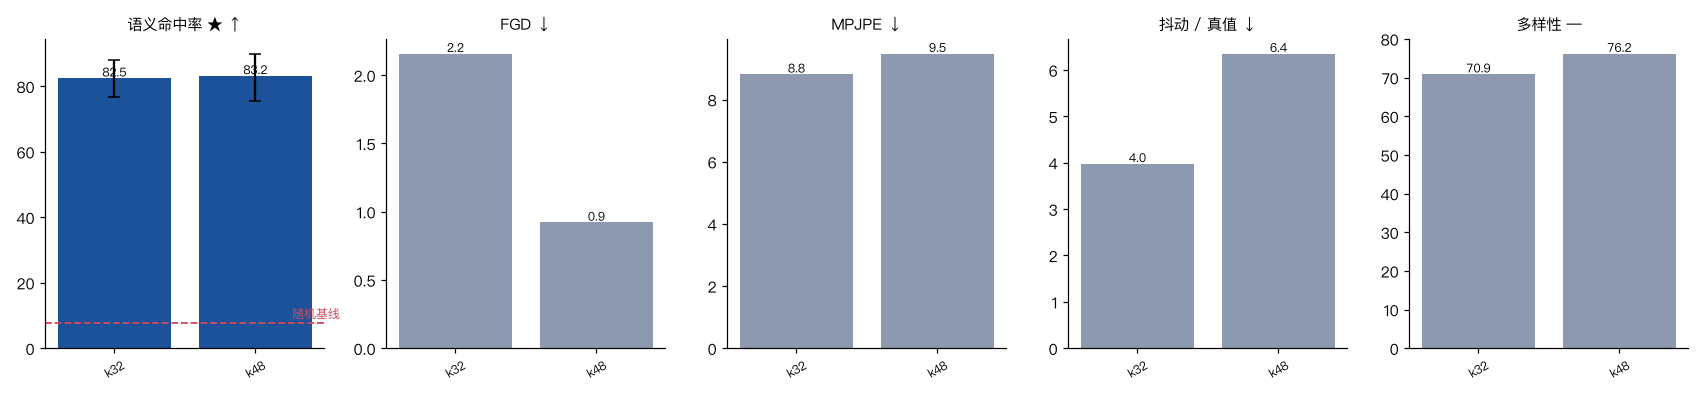
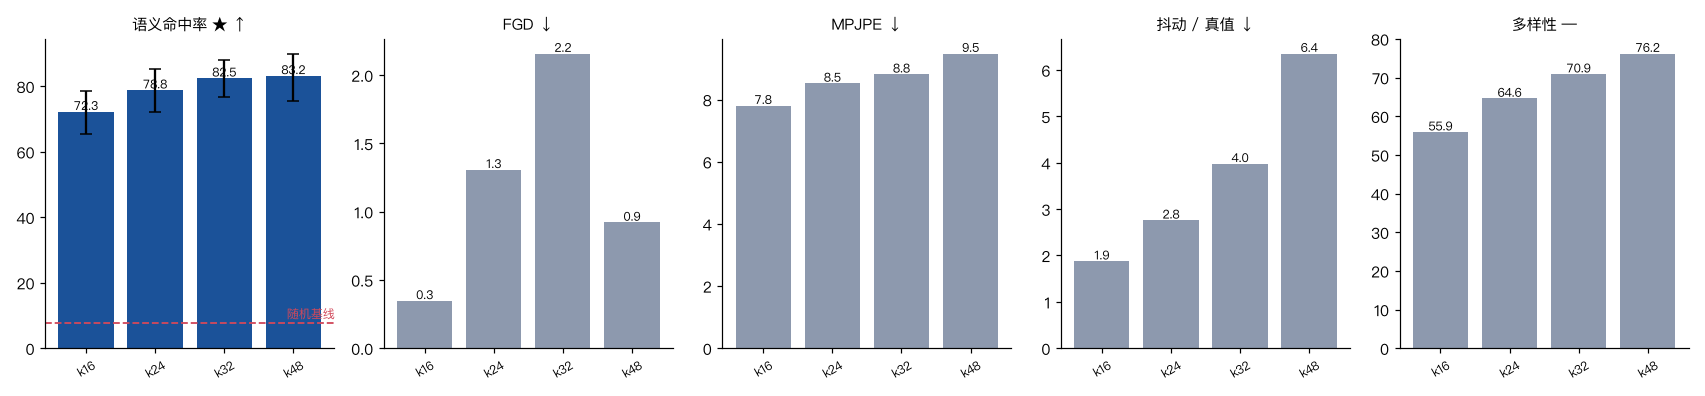
Correction: the projected-ground-truth score is not a ceiling; a K=16 model beat it by 5 points because the projection preserves the temporal mean and SemAcc judges static pose

diff --git a/notes/18-我把参照值当成了天花板.md b/notes/18-我把参照值当成了天花板.md
@@ -1,0 +1,85 @@
+# 18 更正：我把「投影真值的分数」当成了天花板，它不是
+
+今天有两处结论建立在同一个错误上，必须改。
+
+## 错在哪
+
+我一直用这个流程：**动手写模型之前，先把真值投影到受限表示上再算 SemAcc，
+把这个数当成任何受限模型的「天花板」。** 用它否掉过 DCT 低频基那条路
+（[`notes/15`](15-低频基这条路是死的.md)），也用它规划过学习基的 K
+（[`notes/17`](17-学习基.md)）。
+
+**它不是天花板。** 直接证据：
+
+| K | 投影真值的 SemAcc（我叫它「天花板」） | 模型实测 |
+|---|---|---|
+| **16** | **67.2 %** | **72.3 %** ← **超了 5 个百分点** |
+| 24 | 79.6 % | 78.8 % |
+| 32 | 93.4 % | 82.5 % |
+| 48 | 100.0 % | 83.2 % |
+
+## 为什么会超
+
+两个原因叠在一起：
+
+**1. 投影保留了静态成分。** `project_np` 是「先减窗口时间均值 → 投影 → 加回均值」，
+所以**时间均值那部分完全不受 K 影响**：
+
+```
+K= 4   时间均值姿态的差 1.831 cm    动态部分的差 6.674 cm
+K= 8   时间均值姿态的差 0.717 cm    动态部分的差 4.427 cm
+K=16   时间均值姿态的差 0.397 cm    动态部分的差 3.008 cm
+```
+
+**2. SemAcc 判的是静态姿势。** 13 个语义原型全是**静止的姿态**
+（`_semantic_offset(cls, phase=0.5)` 取的是峰值相位的一帧）。
+判类是「峰值帧的姿态离哪个原型最近」。
+
+两条合起来：**模型只要把对的姿势放进「时间均值」这个不受 K 约束的成分里，
+在任何 K 下都能判对。** 而投影真值会把它自己的峰值帧姿态往均值方向拉
+（动态成分被削掉），反而离原型更远。
+
+所以那个数量的是「**投影会把真值本身伤多少**」，不是「模型最多能拿多少」。
+
+## 两处要改的结论
+
+### 1. `notes/15`「低频基这条路是死的」——理由不成立
+
+原文的论证是：「K=32（3.18 Hz）时真值自己也只有 73.0%，而现有模型已经是 73–76%，
+所以这条路不可能赢。」
+
+**这个推理用了假前提。** 73.0% 不是 DCT-32 模型的上界。
+正确的说法只能是「DCT 基在 K=32 上对真值的损伤比学习基大得多（73.0% vs 93.4%）」，
+这仍然支持「学习基优于手工基」，但**不足以说明 DCT 路线走不通**。
+
+诚实的记录：**我当时没有跑 DCT 版的模型就否掉了它，理由是错的。**
+学习基后来赢了，但那是另一条证据链，不是 notes/15 那条。
+
+### 2. `notes/17` 里的「天花板」一词要全部改成「投影真值的参照值」
+
+并且「K=48 天花板 100% 所以有余量」这类推理要撤回。
+K=32 和 K=48 打平、K=32 抖动更低这个**实测**结论不受影响。
+
+## 这条错误为什么值得单独写一页
+
+「先量上限和下限」是这个项目最核心的纪律，也是姊妹项目 facial 的签名动作。
+今天这次说明：**这条纪律本身也会用错——量的那个数必须真的是上界，
+而不只是「一个和上界有关的数」。**
+
+判断标准：如果模型有办法在不复现「投影真值」的前提下拿到更高的分，
+那这个数就不是上界。这里的漏洞是**静态成分绕过了约束**，
+而主指标恰好只看静态姿势。
+
+一个更接近真上界的量法：**把投影**也**作用在时间均值上**（即不做减均值/加回均值），
+再算 SemAcc——那才对应「模型的输出被完全关在子空间里」的情形。
+留作下一步核对。
+
+## 影响范围
+
+| 文档 | 状态 |
+|---|---|
+| `notes/15` | 已加更正块，结论降级为「未经实验就否掉，理由不成立」 |
+| `notes/17` | 「天花板」改为「投影真值的参照值」，撤回基于它的规划推理 |
+| `PLAN.md` 第二、三批预注册 | 原文保留（预注册不能改），在对账里注明这个词用错了 |
+| `docs/improve.md` | 同步改词 |
+| 实测的对照结果（配对 McNemar、抖动、MPJPE） | **不受影响** |

diff --git a/notes/17-学习基.md b/notes/17-学习基.md
@@ -25,9 +25,15 @@
 
 ---
 
-## 先量天花板（和以前一样，写模型之前）
+## 先量「投影真值的参照值」（写模型之前）
 
-把真值投影到前 K 维再算 SemAcc：
+把真值投影到前 K 维再算 SemAcc。
+
+> ⚠ **这个数不是天花板**——我一开始是这么叫的，错了。实测 K=16 的模型（72.3%）
+> 超过了它的「天花板」（67.2%）。原因见 [`notes/18`](18-我把参照值当成了天花板.md)：
+> 投影保留时间均值，而 SemAcc 判的是静态姿势。
+> 它量的是「投影会把真值伤多少」，可以用来**比较两组基的好坏**，
+> 不能用来**预测模型能拿多少分**。
 
 | K | **学习基** | 手工 DCT 基 |
 |---|---|---|
@@ -50,7 +56,7 @@
 
 ## 结果（400 句数据，5000 步，测试集 40 句 / 137 个事件）
 
-| 配置 | **SemAcc ★** | 天花板 | FGD | MPJPE | 抖动 / 真值 |
+| 配置 | **SemAcc ★** | 投影真值参照 | FGD | MPJPE | 抖动 / 真值 |
 |---|---|---|---|---|---|
 | 对照（无投影） | 72.3 % | 100 % | **0.392** | 10.50 cm | 15.11× |
 | 对照 + 事后 SG 滤波 | 73.7 % | 86.1 % | 22.773 | 8.60 cm | 4.33× |
@@ -75,9 +81,20 @@ K=32 相对对照：SemAcc +10.2、抖动 −74%、MPJPE −16%。
 唯一变差的是 FGD（0.392 → 2.158），而且这一列本来就对频谱变化极其敏感
 （把真值自己滤一遍 FGD 也会从 0 涨到 1.30）。
 
-**2. K=32 比 K=48 更好用。** 两者 SemAcc 几乎一样（82.5 vs 83.2），
-但 K=32 的抖动低得多（3.98× vs 6.35×）。天花板高（K=48 是 100%）并不代表分数高——
-**天花板不是唯一的约束**，子空间小一点带来的噪声抑制更值钱。
+**2. K=32 比 K=48 更好用（在不加事后滤波时）。** 两者 SemAcc 几乎一样（82.5 vs 83.2），
+但 K=32 的抖动低得多（3.98× vs 6.35×）。
+
+补全 K=16/24 之后的完整扫描（都加了事后 SG 9）：
+
+| K | SemAcc | FGD | MPJPE | 抖动 / 真值 |
+|---|---|---|---|---|
+| 16 | 71.5 % | **0.299** | **7.74 cm** | **1.59×** |
+| 24 | 78.8 % | 1.379 | 8.35 cm | 2.27× |
+| 32 | 83.2 % | 2.305 | 8.44 cm | 3.01× |
+| **48** | **84.7 %** | 0.970 | 8.57 cm | 3.24× |
+
+**K=48 + 事后滤波是 SemAcc 最高的（84.7%），K=16 是抖动和 FGD 最好的（1.59×、0.299）。**
+这是一条清晰的取舍曲线，而不是单一最优点。
 
 **3. 和事后滤波能叠加。** K=32 + SG-9 = SemAcc 83.2%、抖动 3.01×、MPJPE 8.44。
 这和 band-limited + 滤波那次不一样（那次 FGD 炸到 59.7）——

diff --git a/notes/15-低频基这条路是死的.md b/notes/15-低频基这条路是死的.md
@@ -1,5 +1,18 @@
 # 15 低频基这条路是死的，而且否掉它只花了三分钟
 
+> ## ⚠ 更正（2026-08-25）：这一页的核心论证用了假前提
+>
+> 下面把「投影真值后的 SemAcc」当成了受限模型的**天花板**。**它不是。**
+> 实测 K=16 的学习基模型拿到 72.3%，而「天花板」是 67.2%——超了 5 个百分点。
+> 原因是投影保留了时间均值，而 SemAcc 判的是静态姿势，
+> 模型可以把对的姿势放进均值里绕过约束。详见 [`notes/18`](18-我把参照值当成了天花板.md)。
+>
+> 所以本页的结论要降级为：**我没有跑 DCT 版的模型就否掉了它，理由不成立。**
+> 仍然成立的是那张对照表本身——DCT 基对真值的损伤比学习基大得多
+> （K=32：73.0% vs 93.4%），这支持「学习基优于手工基」，
+> 但不足以说明 DCT 路线走不通。
+
+
 在 [`docs/one-page.md`](../docs/one-page.md) 的「下一步」里我写过：
 
 > 抖动从表示层面解决。下一步该试**预测低频基的系数**而不是逐帧值。
